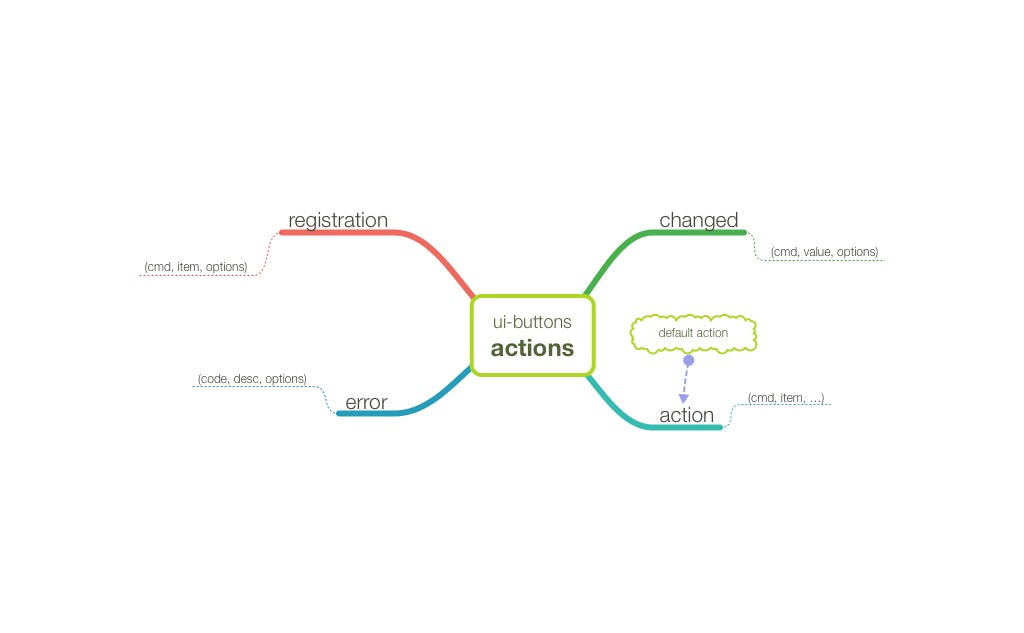
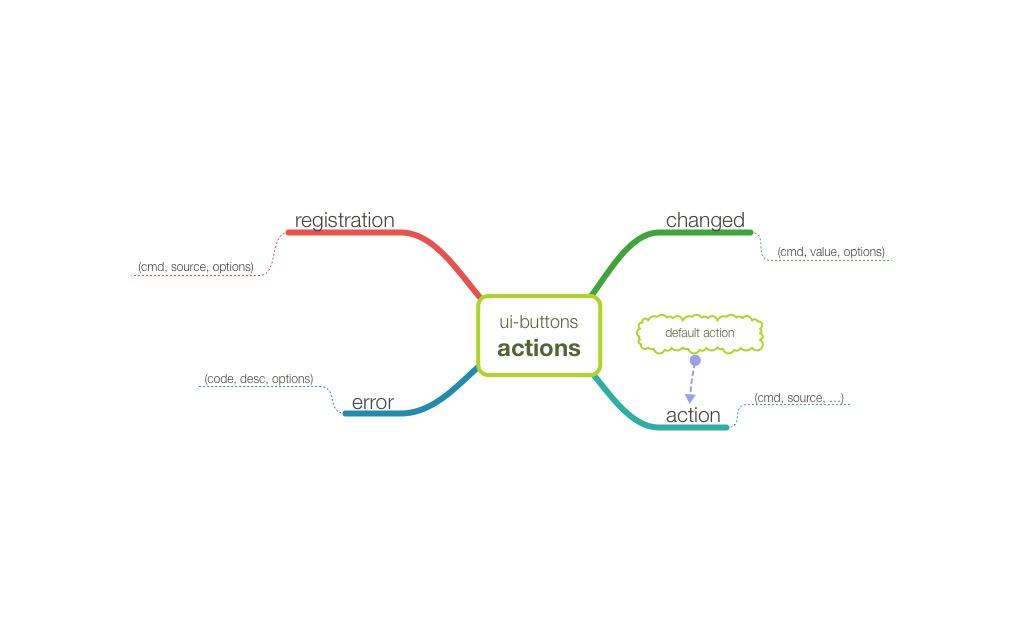
Actions working

diff --git a/addon/components/ui-buttons.js b/addon/components/ui-buttons.js
@@ -10,8 +10,8 @@ const propertyIsSet = thingy => {
 const isUndefined = thingy => {
   return Ember.typeOf(thingy) === 'undefined';
 };
-const CARDINALITY_MIN = 'cardinality-min-threashold';
-const CARDINALITY_MAX = 'cardinality-max-threashold';
+const CARDINALITY_MIN = 'cardinality-min-threshold';
+const CARDINALITY_MAX = 'cardinality-max-threshold';
 const VALUES_CARDINALITY_ERROR = 'values-cardinality-error';
 const SET_WITH_CARDINALITY = 'set-with-cardinality-0';
 
@@ -66,9 +66,9 @@ const uiButtons = Ember.Component.extend(GroupMessaging,{
     }
   },
   getValues() {
-    const selectedButtons = this.get('selectedButtons');
+    const selectedButtons = Array.from(this.get('selectedButtons'));
 
-    return Array.from(selectedButtons);
+    return selectedButtons;
   },
 
   /**
@@ -180,8 +180,8 @@ const uiButtons = Ember.Component.extend(GroupMessaging,{
   */
   disabledMutex: null,
   disabled: computed({
-    set(_,value) {
-      this.setDisabled(value);
+    set(_,value,oldValue) {
+      this.setDisabled(value,oldValue);
       return value;
     },
     get() {
@@ -234,10 +234,13 @@ const uiButtons = Ember.Component.extend(GroupMessaging,{
         process('add',value);
         break;
     }
+    this.sendAction('changed', 'disabled', Array.from(disabledButtons));
     this.notifyPropertyChange('disabledMutex');
   },
   getDisabled() {
-    return Array.from(this.get('disabledButtons'));
+    const disabledButtons = Array.from(this.get('disabledButtons'));
+    this.sendAction('changed', 'disabled', disabledButtons);
+    return disabledButtons;
   },
   disabledButtons: computed(function() {
     return new Set();
@@ -312,25 +315,35 @@ const uiButtons = Ember.Component.extend(GroupMessaging,{
       selectedButtons.clear();
       selectedButtons.add(value);
     } else if(Number.isInteger(_cardinality.max) && selectedButtons.size >= _cardinality.max) {
-      this.sendAction('error', CARDINALITY_MAX, 'there must be no more than ${_cardinality.max} buttons');
+      this.sendAction('error', CARDINALITY_MAX, `there must be no more than ${_cardinality.max} buttons`);
       return false;
     } else {
       selectedButtons.add(value);
     }
-
-    this.sendAction('action', 'selected', value);
+    if(this._rendered) {
+      this.sendAction('action', 'selected', this, value);
+      this.sendAction('changed', 'values', Array.from(selectedButtons));
+    } else {
+      this.sendAction('action', 'initiated', this, value);
+    }
     this.notifyPropertyChange('selectedMutex');
     return true;
   },
   _deactivateButton(value) {
     const {_cardinality,selectedButtons} = this.getProperties('_cardinality','selectedButtons');
     if(selectedButtons.size <= _cardinality.min) {
-      this.sendAction('onError', CARDINALITY_MIN, `there must be at least ${_cardinality.min} buttons`);
+      this.sendAction('error', CARDINALITY_MIN, `there must be at least ${_cardinality.min} button(s)`);
       this._tellItem(value, 'applyEffect', 'cardinalityEffect');
       return false;
     }
     selectedButtons.delete(value);
-    this.sendAction('action', 'unselected', value);
+    if(this._rendered) {
+      this.sendAction('action', 'unselected', this, value);
+      this.sendAction('changed', 'values', Array.from(selectedButtons));
+    } else {
+      this.sendAction('action', 'initiated', this, value); // TODO: does this make sense?
+    }
+
     this.notifyPropertyChange('selectedMutex');
     return true;
   },
@@ -453,6 +466,7 @@ const uiButtons = Ember.Component.extend(GroupMessaging,{
   _r: on('willRender', function() { return this.willRender(); }),
   _d: on('willDestroyElement', function() { return this.willDestroyElement(); }),
   _dr: on('afterRender', function() { return this.didRender(); }),
+  _rendered: false,
 
   _init() {
     // nothing yet
@@ -472,6 +486,7 @@ const uiButtons = Ember.Component.extend(GroupMessaging,{
   },
   didRender() {
     this._tellItems('rendered');
+    this._rendered = true;
   }
 
 });

diff --git a/tests/dummy/app/controllers/buttons-demo.js b/tests/dummy/app/controllers/buttons-demo.js
@@ -2,7 +2,6 @@ import Ember from 'ember';
 const { computed, observer, $, A, run, on, typeOf, debug, keys, get, set, inject } = Ember;    // jshint ignore:line
 
 export default Ember.Controller.extend({
-
   d: false,
   s: 'normal',
   howMany: null,
@@ -23,8 +22,26 @@ export default Ember.Controller.extend({
 
 
   actions: {
-    changed: function(newValue,oldValue) {
-      window.alert(`Value changed from "${oldValue}" to "${newValue}"`);
+    changed: function(property,value) {
+      if(property === 'values') {
+        this.get('flashMessages').success(`Value changed to: ${value}`);
+        this.set('actionValues', value);
+      }
+      if(property === 'disabled') {
+        let desc;
+        if(typeOf(value) ==='boolean') {
+          desc = value ? 'true' : 'false';
+        } else {
+          desc = `"${value}"`;
+        }
+        this.get('flashMessages').success(`Disabled changed to: ${desc}`);
+      }
+    },
+    error(code,desc) {
+      this.get('flashMessages').danger(`${desc} [${code}].`);
+    },
+    action(cmd,source) {
+      this.get('flashMessages').info(`"${cmd}" command was sent by ${source.get('value')}`);
     },
     disablement(cmd, item) {
       if(cmd === 'toggled') {

diff --git a/addon/components/ui-button.js b/addon/components/ui-button.js
@@ -314,7 +314,7 @@ const uiButton = Ember.Component.extend(SharedStyle,ItemMessaging,{
         this.$().addClass('animated ' + effect);
         this.$().one('webkitAnimationEnd mozAnimationEnd MSAnimationEnd oanimationend animationend', () => {
           this.$().removeClass('animated ' + effect);
-          this.sendAction('action', 'effectEnded', 'effectType');
+          this.sendAction('action', 'effectEnded', this, 'effectType');
         });
       });
     } catch (e) {

diff --git a/tests/dummy/app/styles/app.css b/tests/dummy/app/styles/app.css
@@ -353,3 +353,12 @@ ul.components {
 .downer {
   padding-top: 15px;
 }
+
+.flashy {
+  position: fixed;
+  top: 20px;
+  left: 25%;
+  width: 50%;
+  z-index: 999;
+  text-align: center;
+}
